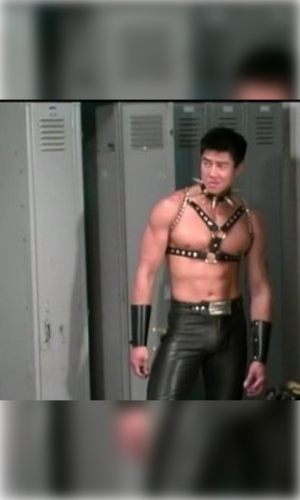
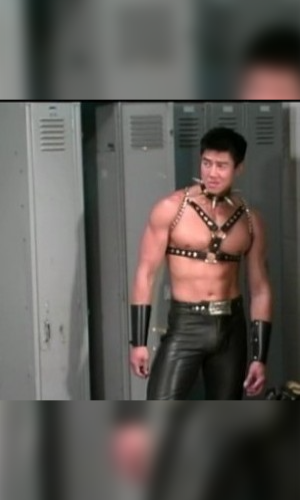
fix transparent image borders

diff --git a/src/views/Editor/components/Preview.vue b/src/views/Editor/components/Preview.vue
@@ -59,13 +59,6 @@ async function download() {
   <div class="preview" ref="previewRef">
     <div class="imageContainer" :style="{ cursor: !isDownloading ? 'pointer' : 'not-allowed' }" @click="download" :id="PREVIEW_ID">
       <v-img
-        class="corner-fill-underlay"
-        :src="uploadedImageUrl"
-        :width="previewSize[0]"
-        :height="previewSize[1]"
-        cover
-      />
-      <v-img
         class="underlay"
         :src="uploadedImageUrl"
         :width="previewSize[0]"
@@ -87,12 +80,6 @@ async function download() {
   align-items: center;
 }
 
-.corner-fill-underlay {
-  position: absolute;
-  width: 100%;
-  height: 100%;
-}
-
 .original {
   align-self: center;
 }
@@ -105,7 +92,8 @@ async function download() {
   }
 
   > img {
-    filter: blur(8px)
+    filter: blur(8px);
+    transform: scale(1.1);
   }
 }
 </style>
